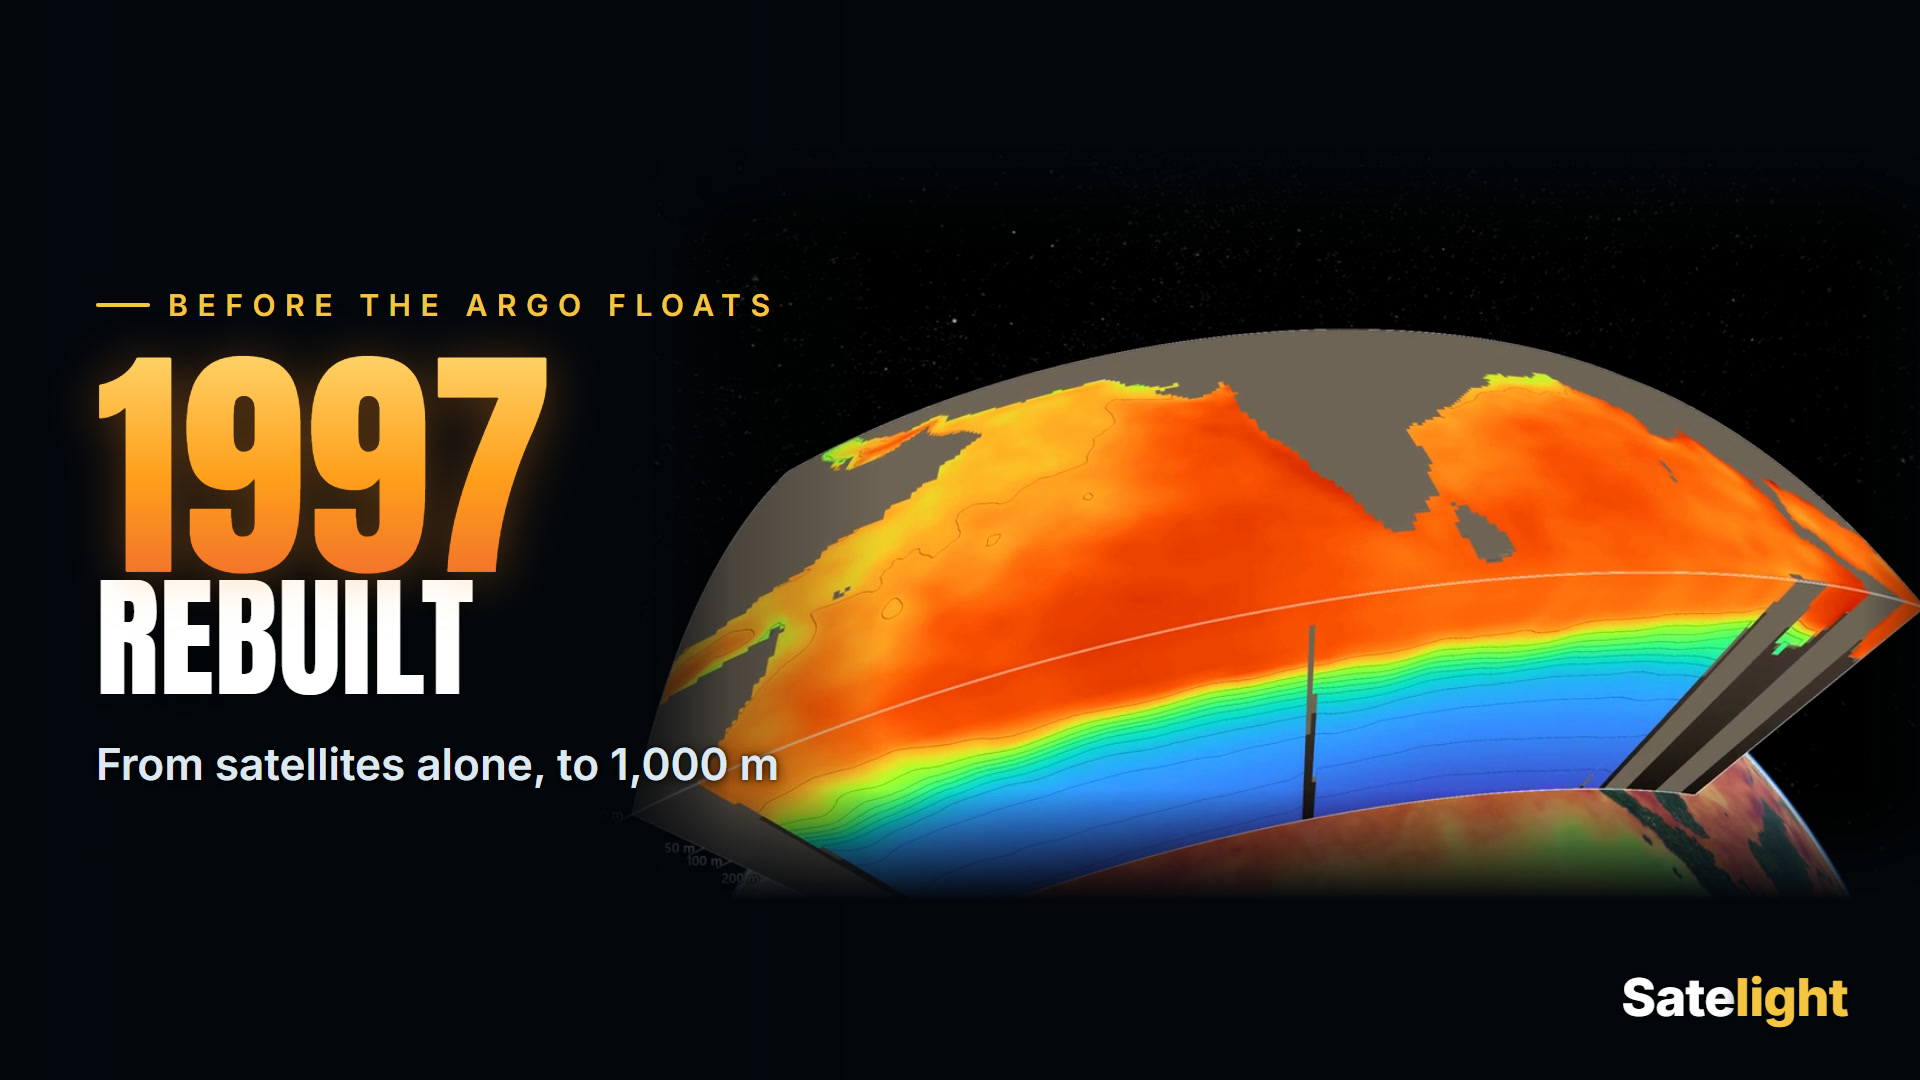
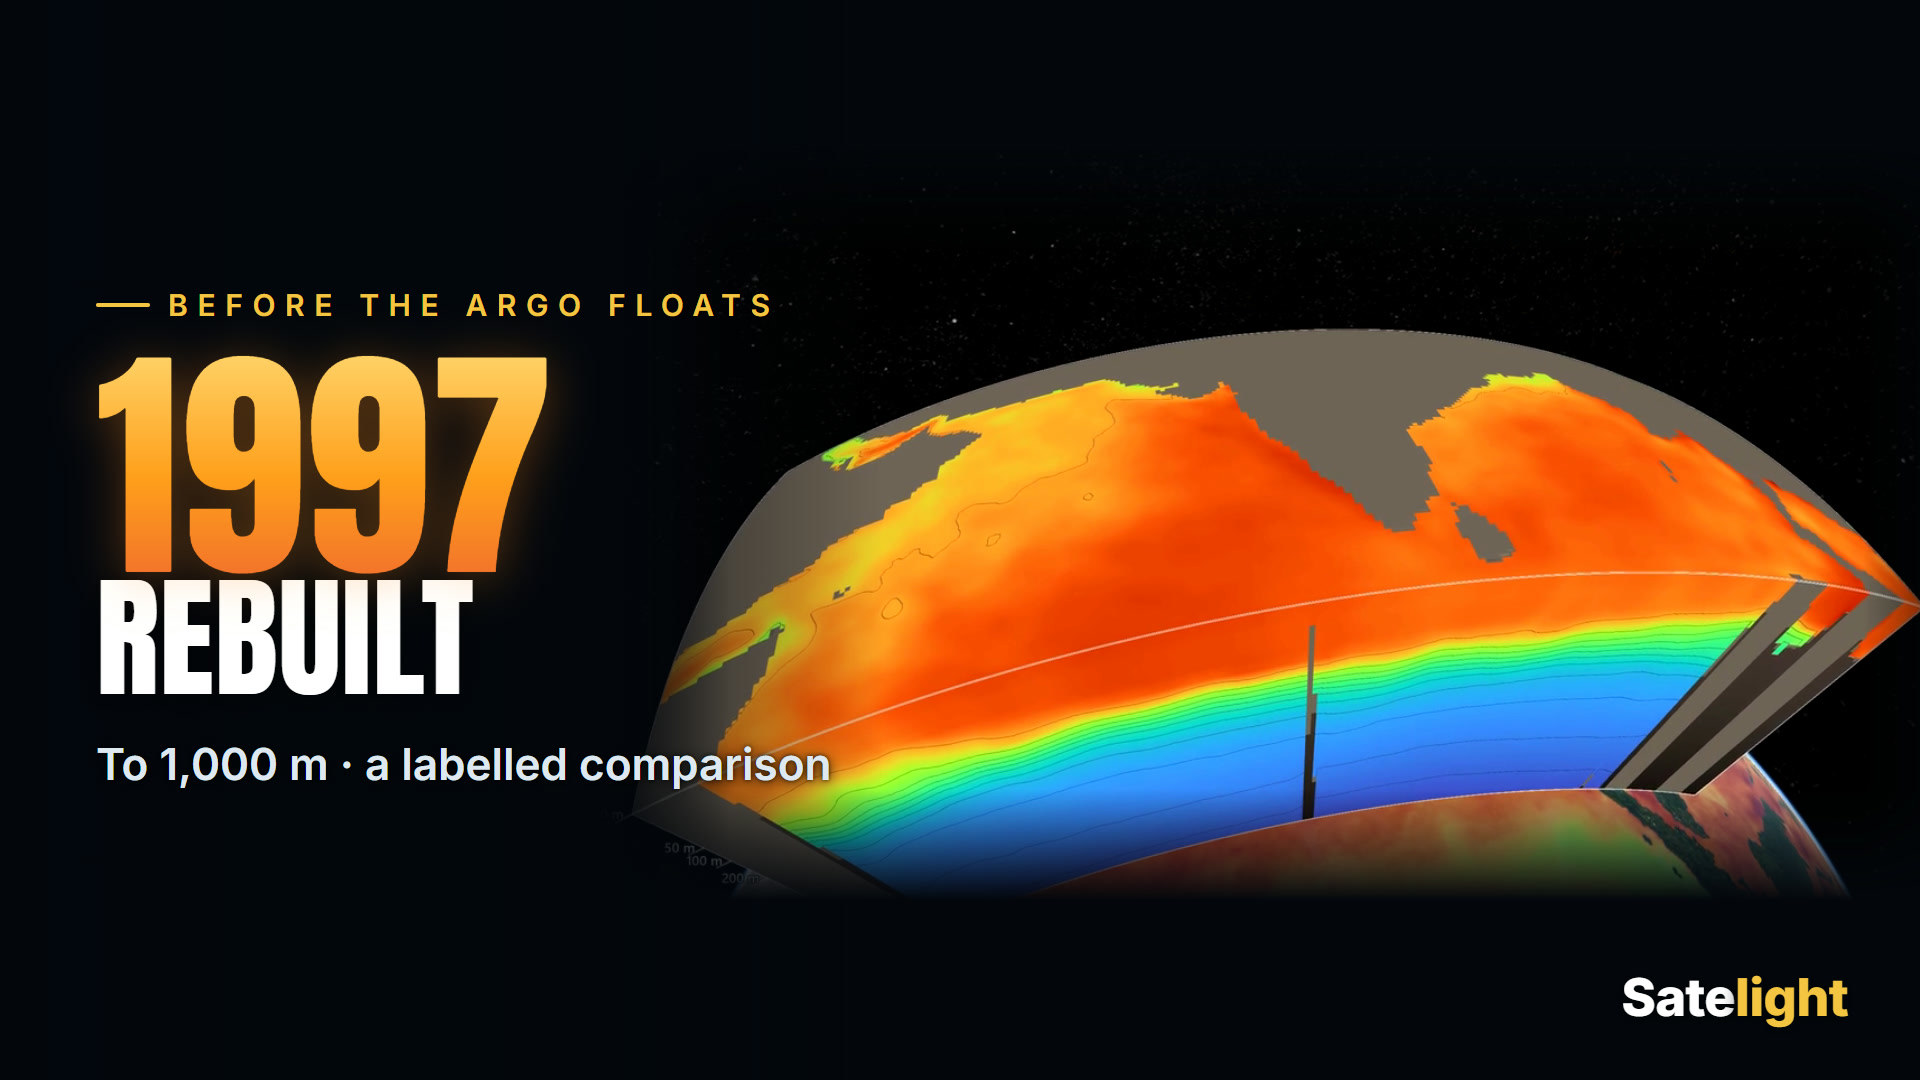
Before-the-floats claims labelled a comparison in the abstract, the YouTube text and thumbnail b; field lengths re-measured; synthetic-content setting left to the team with the help page to check

Changed region(s): [[0.0312, 0.6722, 0.4375, 0.7333]]

diff --git a/submission/youtube/thumbnail.html b/submission/youtube/thumbnail.html
@@ -50,7 +50,7 @@ const variants = {
       <div class="kicker">Before the Argo floats</div>
       <h1 class="warm big">1997</h1>
       <h1 style="font-size:132px">rebuilt</h1>
-      <div class="sub">From satellites alone, to 1,000 m</div>
+      <div class="sub">To 1,000 m · a labelled comparison</div>
     </div>` + brand,
   c: dive(1.0, 330, 40) + leftShade + `
     <div class="copy">

diff --git a/docs/26-youtube.md b/docs/26-youtube.md
@@ -43,10 +43,10 @@ is harness output.
 | File | Picture | Words |
 |---|---|---|
 | `thumbnail-a.jpg` | The dive at 0:47: the Bay of Bengal on 17 May 2023, cut open | THE OCEAN BELOW, FROM SPACE · Temperature to 1,000 m, from satellites alone |
-| `thumbnail-b.jpg` | 15 November 1997 at 3:38: the whole North Indian Ocean, before any Argo float surfaced there | BEFORE THE ARGO FLOATS · 1997 REBUILT · From satellites alone, to 1,000 m |
+| `thumbnail-b.jpg` | 15 November 1997 at 3:38: the whole North Indian Ocean, before any Argo float surfaced there | BEFORE THE ARGO FLOATS · 1997 REBUILT · To 1,000 m · a labelled comparison |
 | `thumbnail-c.jpg` | The dive at 0:47 | THE REANALYSIS ARRIVES 99 DAYS LATE · Satelight reads this week's satellites |
 
-`b` is the strongest picture and the most surprising claim; the film explains it at 3:31.
+`b` is the strongest picture and the most surprising claim; the film explains it at 3:31. It carries "a labelled comparison" because before 2010 the salinity input is not from a satellite, and the crop leaves out the viewer's own comparison badge.
 `a` says what the product is at a glance. `c` is the sharpest hook: 99 days is how far
 behind GLORYS was on 2026-09-30 (`13-eval-results.md`, Nowcast), the same figure the film
 shows at 3:01.
@@ -75,7 +75,7 @@ What it does
 • Cyclone fuel, the heat above 26 °C, every day. Against the floats, climatology misses it by 21.0 kJ/cm², Satelight by 12.9 and GLORYS by 11.9.
 • Fishing depth beside INCOIS's own fishing zones. In the Bay of Bengal, climatology misses the 20 °C depth by 19.3 m, Satelight by 13.7 and GLORYS by 12.0.
 • This morning's ocean: GLORYS was 99 days behind on 30 September 2026. Satelight reads the satellites of days ago.
-• Before the floats: 1993 to 2000 rebuilt, years when no Argo float surfaced in this sea.
+• Before the floats: 1993 to 2000 rebuilt, years when no Argo float surfaced in this sea. Labelled a comparison: salinity before 2010 is not from a satellite.
 • Every float keeps its quality flag, data mode and source file. Readings that fail quality control are counted, never dropped.
 
 Not done yet, and said so in the film: the embedding proof is half met, the thermocline runs warm, and the sonar layer is not there yet.
@@ -123,7 +123,7 @@ Satelight, Smart India Hackathon, SIH 2026, SIH26066, INCOIS, ocean temperature,
 | Category | Science & Technology |
 | Video language / caption language | English (India) |
 | Captions | Upload `submission/youtube/satelight-film.en.srt` as English. The film has no burned-in subtitles, and YouTube's auto-captions mishear Satelight, INCOIS and GLORYS. The Tamil line at 1:50 is captioned in Tamil, as it is spoken. |
-| Altered or synthetic content | No. The footage is the running viewer on real data. The guide narration is a synthetic voice that does not imitate any real person, which YouTube's disclosure does not cover. |
+| Altered or synthetic content | The team's call; we suggest No. The footage is the running viewer on real data, and the guide narration is a synthetic voice that imitates no real person. Read YouTube's help page on disclosing altered or synthetic content at upload, and choose Yes if it asks for voices like this one. |
 | License | Standard YouTube License |
 | Allow embedding | On, so the link plays inside the portal and slides |
 | Comments | On, sorted by Top |

diff --git a/docs/25-portal-form.md b/docs/25-portal-form.md
@@ -6,7 +6,7 @@ The text entered on the SIH portal for the final submission. Every number comes 
 beside climatology and GLORYS, per basin or for the whole box (hard rule 8).
 `python submission/textcheck.py` checks every number in the marked blocks against the
 harness, and the length of each field; it fails rather than let a block drift.
-Lengths on 2026-10-05: title 94 of 100, abstract 2,952 of 10,000, description 10,462 of
+Lengths on 2026-10-05: title 94 of 100, abstract 3,028 of 10,000, description 10,489 of
 50,000 characters.
 
 ## Idea Title (max 100)
@@ -40,7 +40,7 @@ What it is for:
 - Cyclone forecasters: the heat a cyclone feeds on, every day. Against the floats over the whole box, climatology misses it by 21.0 kJ/cm², Satelight by 12.9 and GLORYS by 11.9. Cyclone Mocha's cold wake in May 2023 shows up from satellites alone.
 - Fishermen: INCOIS's own fishing-zone advisories, each with how deep the warm water goes there, from the latest satellite day. In the Bay of Bengal, climatology misses that depth by 19.3 m, Satelight by 13.7 and GLORYS by 12.0.
 - INCOIS: this morning's ocean. On 30 September 2026 GLORYS was 99 days behind, while sea level had arrived the same day and sea temperature a day later. Satelight shows the ocean of days ago, not months.
-- Climate research: it rebuilds 1993 to 2000, years when not one Argo float surfaced in this sea. Scored on 2005 to 2009, where floats exist, it beats climatology at every depth and stays behind GLORYS down to 500 m.
+- Climate research: it rebuilds 1993 to 2000, years when not one Argo float surfaced in this sea, labelled a comparison because salinity before 2010 is not from a satellite. Scored on 2005 to 2009, where floats exist, it beats climatology at every depth and stays behind GLORYS down to 500 m.
 
 Every float keeps its quality flag, data mode and source file, and 8,500 float readings that fail quality control are counted, never dropped. Every number above comes from one test harness in the repository, which anyone can re-run with one command. What is not finished is written down: one encoder's embedding predicts the mixed-layer depth, which it was never trained on, better than the raw inputs (R² 0.351 against 0.255), but no single encoder also sorts the seasons, so that proof is half met.
 
